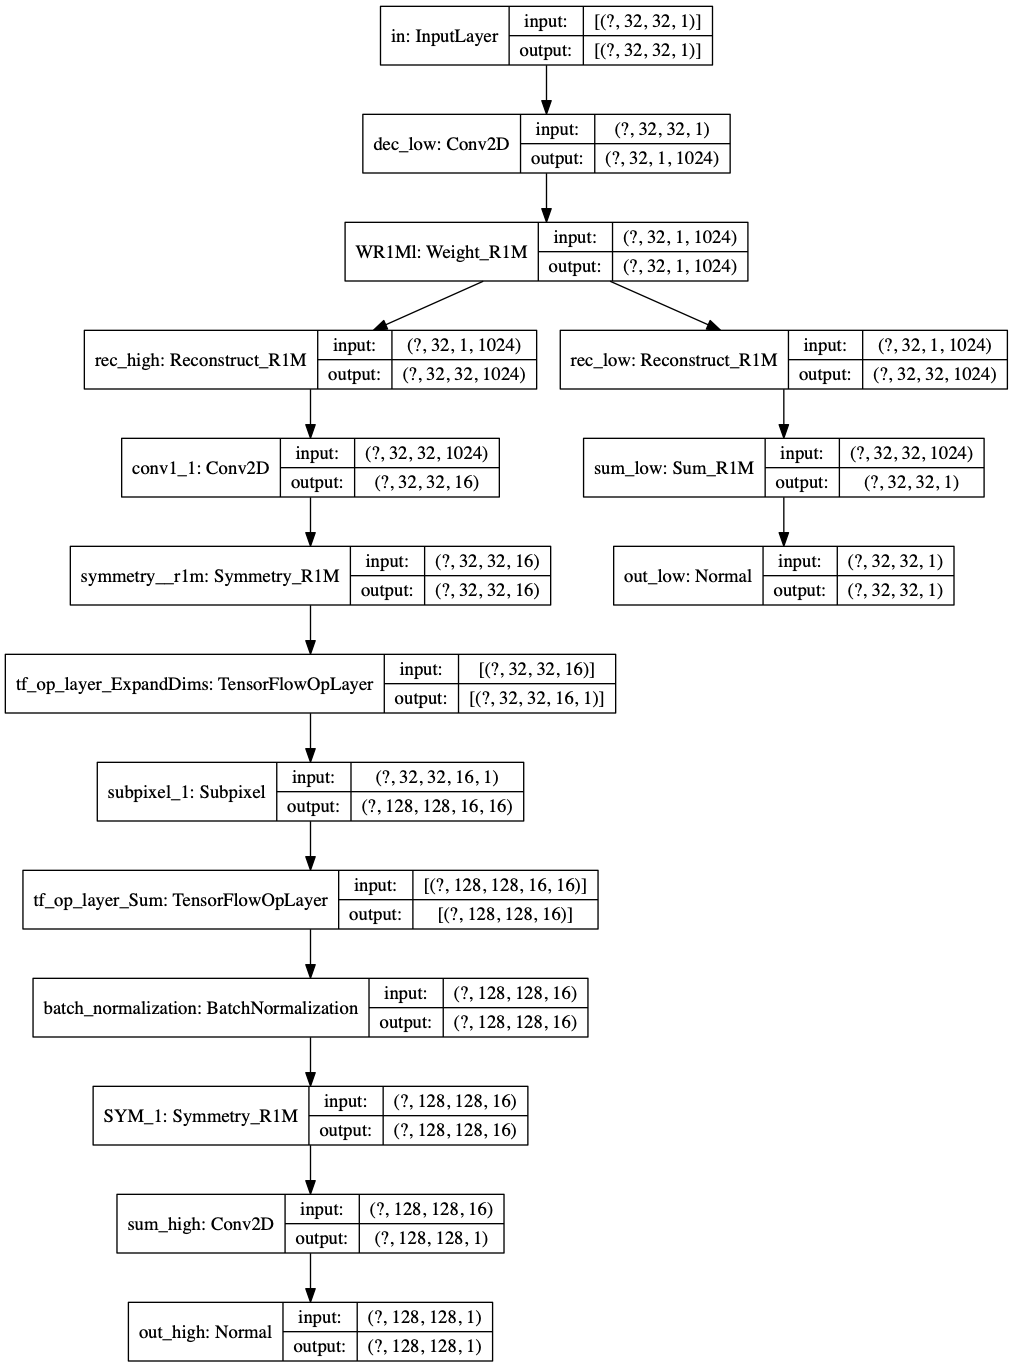
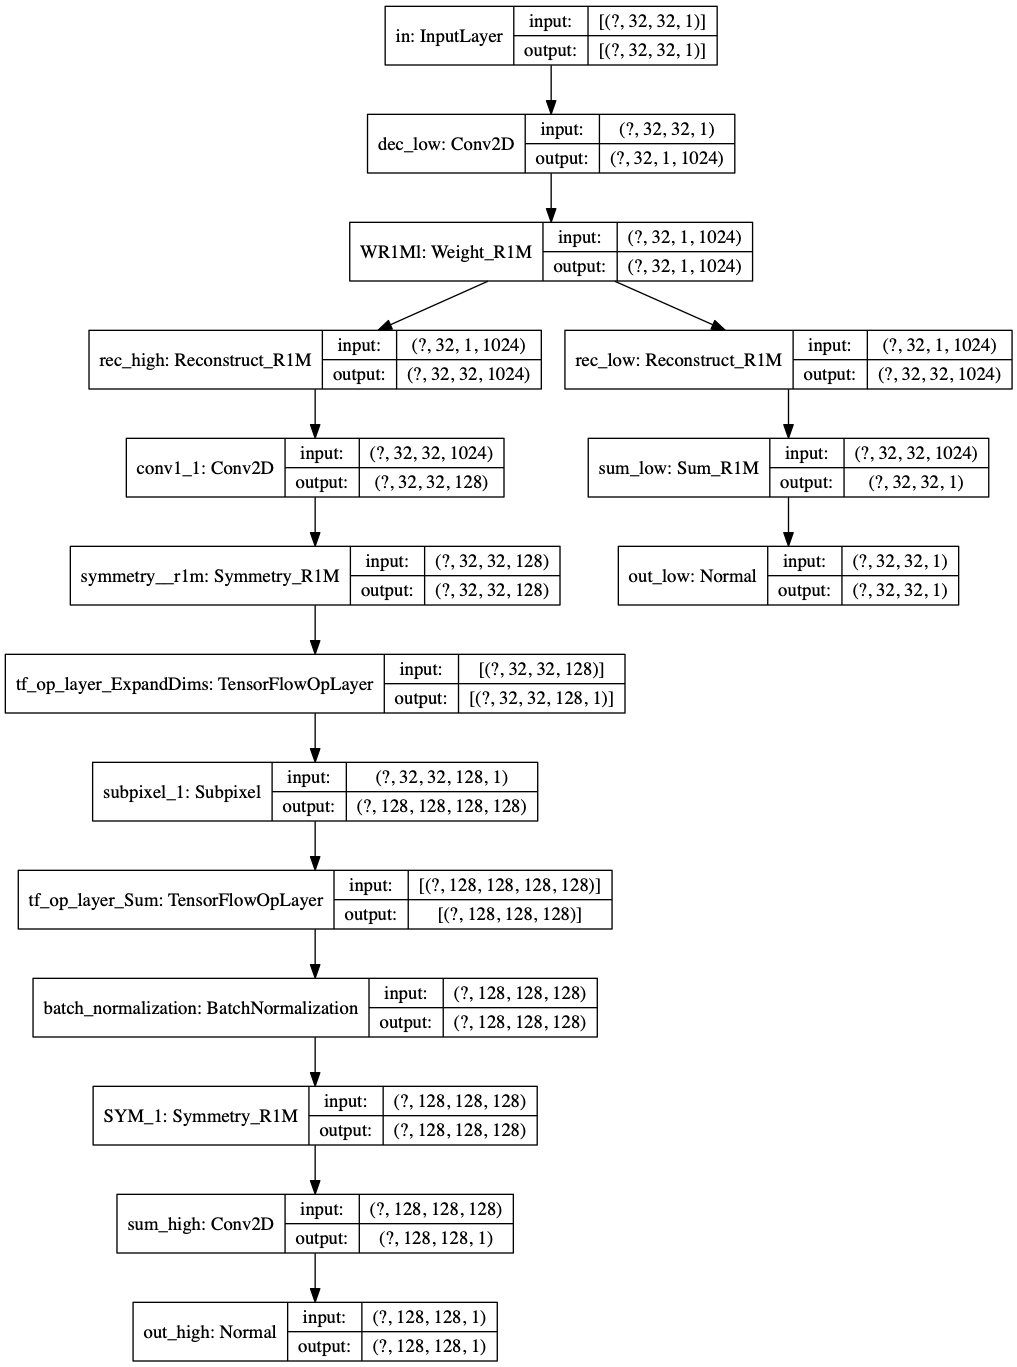
new model conv3D

diff --git a/model.py b/model.py
@@ -166,13 +166,13 @@ def make_generator_model(len_low_size=16, scale=4):
 
     Rech = Reconstruct_R1M(1024, name='rec_high')(WeiR1Ml)
 
-    conv1 = tf.keras.layers.Conv2D(16, [1, 1], strides=1, padding='same', data_format="channels_last", 
+    conv1 = tf.keras.layers.Conv2D(128, [1, 1], strides=1, padding='same', data_format="channels_last", 
                                     activation='relu', use_bias=False,
                                     name='conv1_1')(Rech)
     sym = Symmetry_R1M()(conv1)
 
     sym = tf.expand_dims(sym, axis=-1)
-    trans_1 = Subpixel(filters= int(16), kernel_size=(3,3,1), r=(4,4,1), 
+    trans_1 = Subpixel(filters= int(128), kernel_size=(3,3,1), r=(4,4,1), 
                         activation='relu', use_bias=False, padding='same', 
                         kernel_initializer=tf.keras.initializers.RandomNormal(mean=0.01, stddev=0.1), 
                         name='subpixel_1')(sym)
